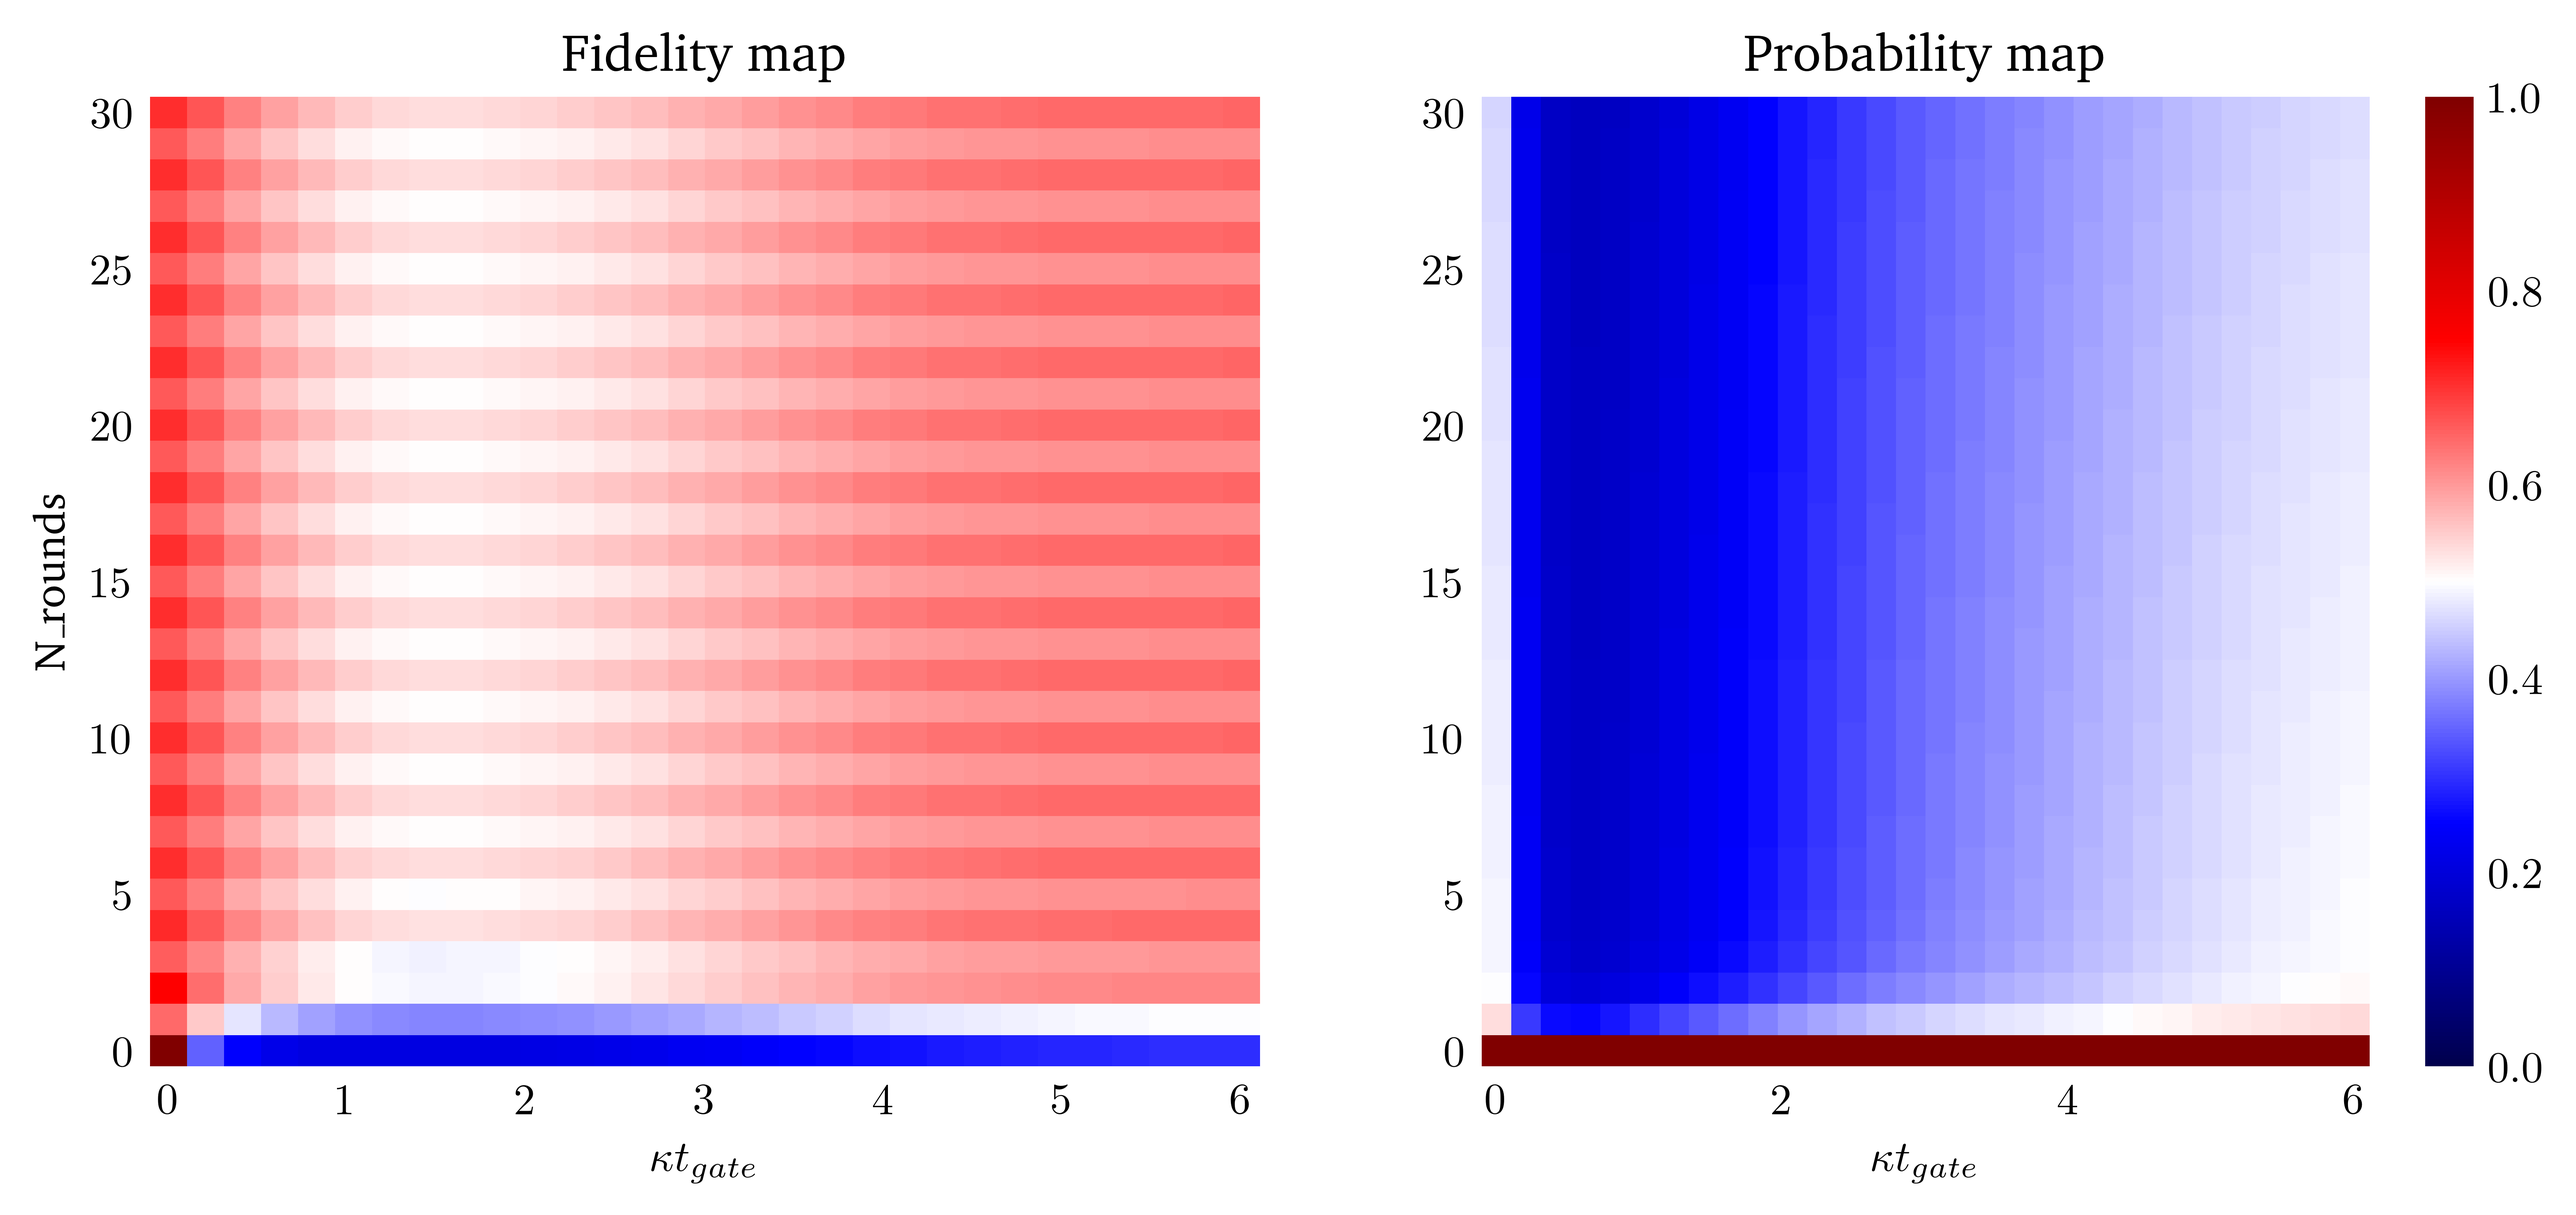
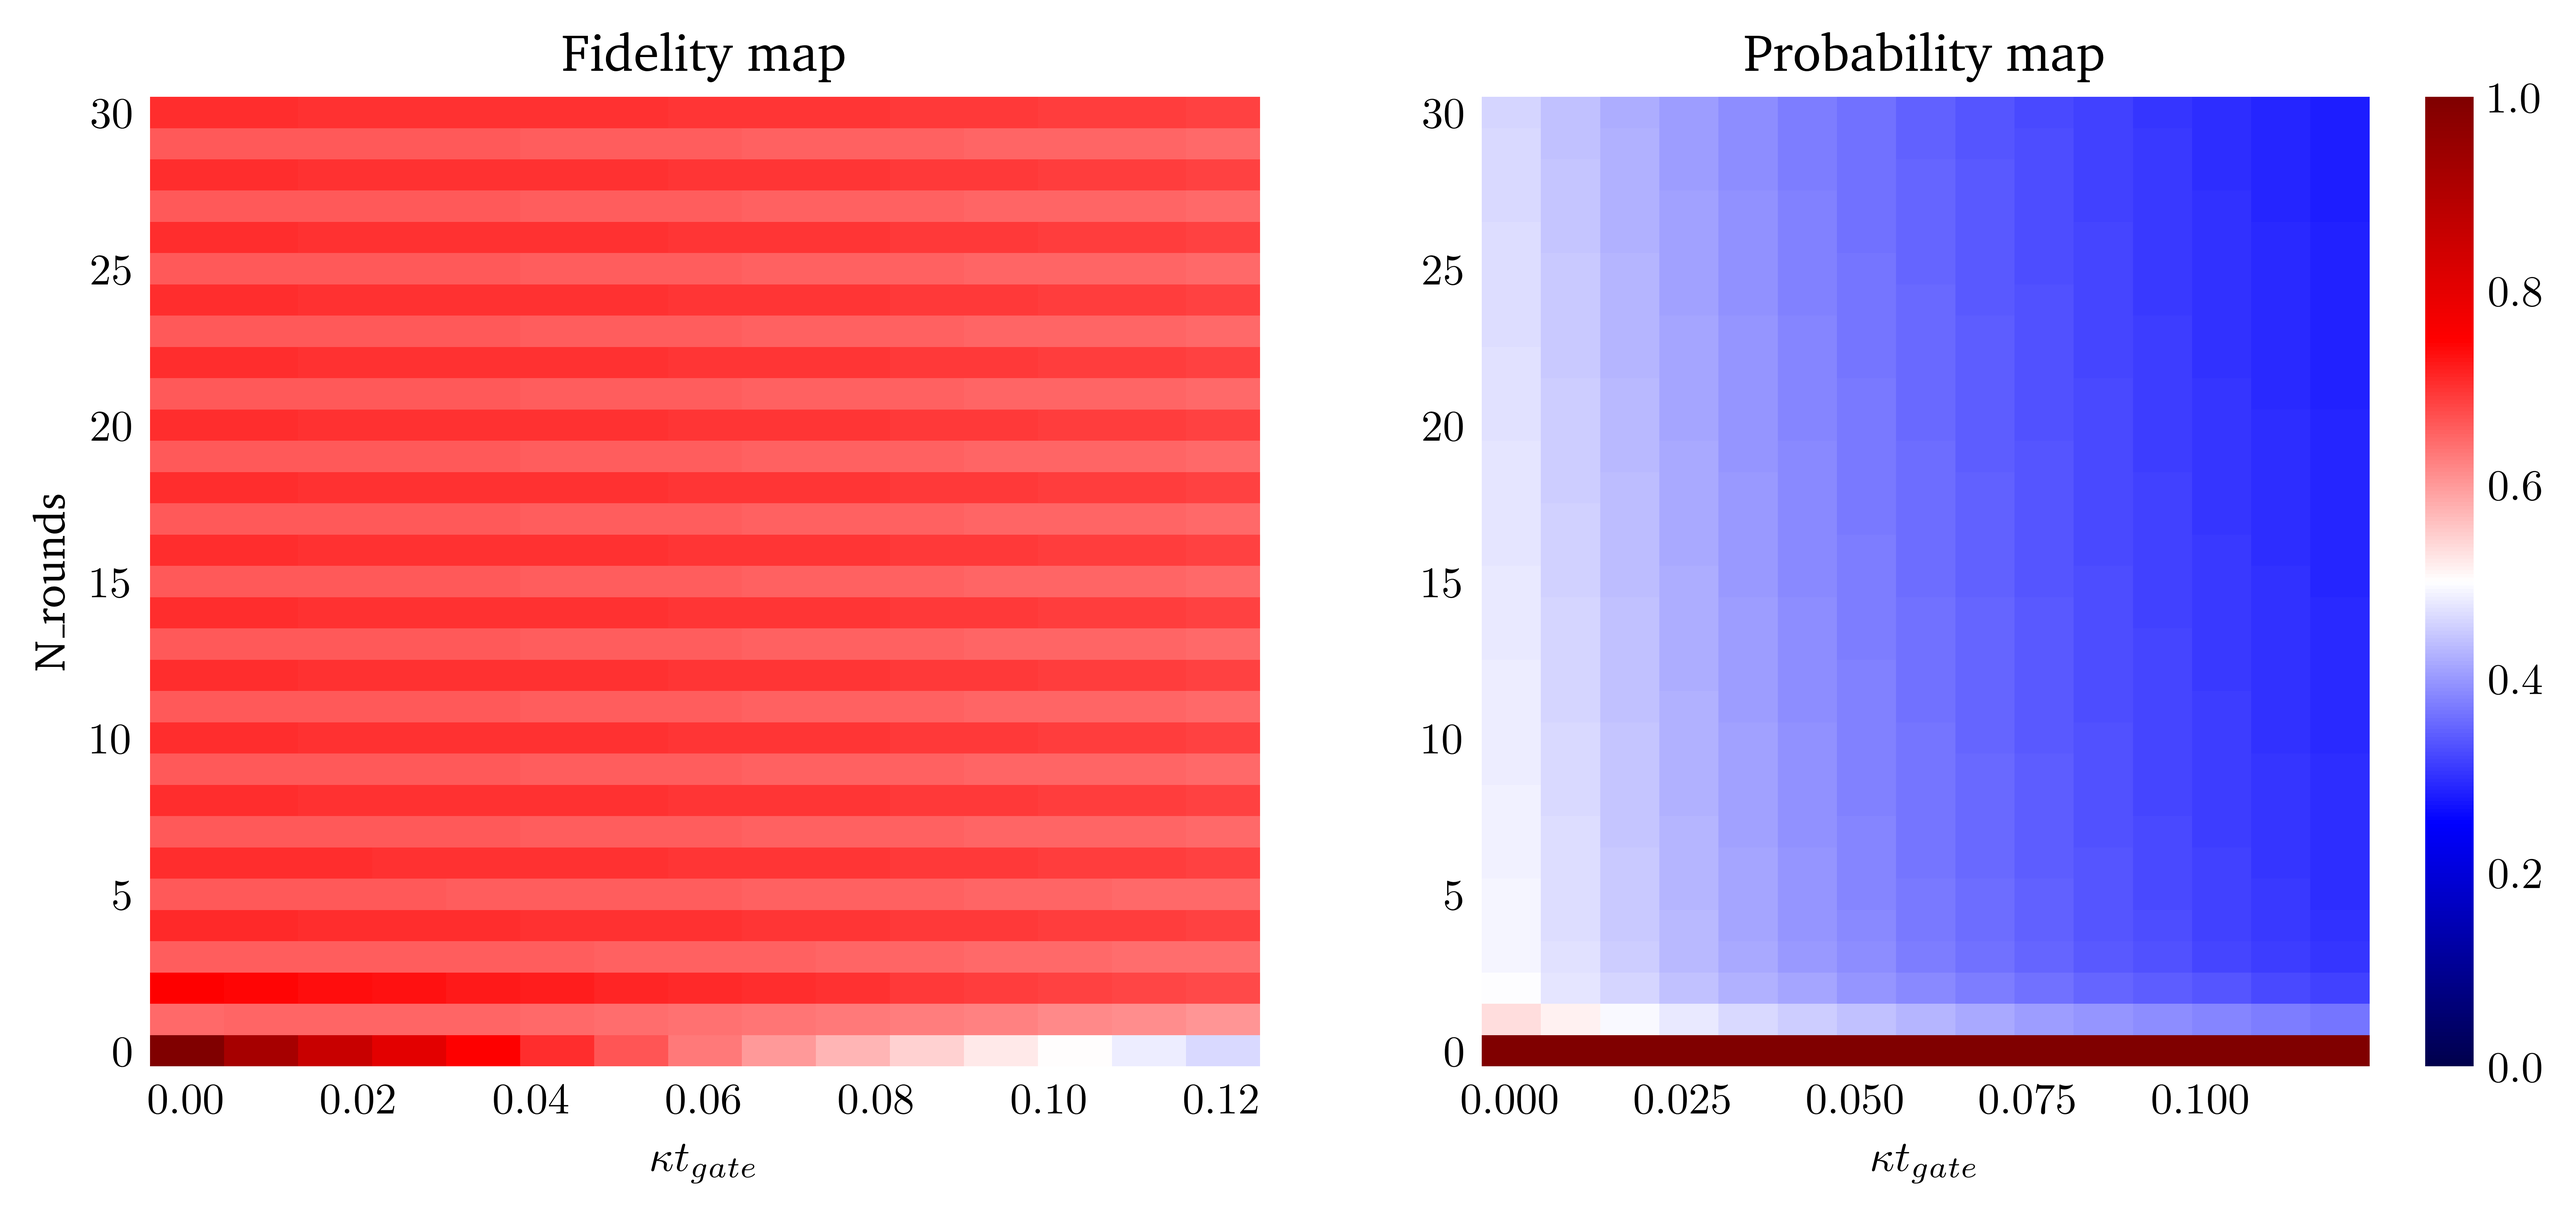
fit

diff --git a/stage_baptiste/homemades/KrausOperator_JV.py b/stage_baptiste/homemades/KrausOperator_JV.py
@@ -13,6 +13,7 @@ import tqdm
 import math
 from qutip import *
 from scipy.constants import pi
+from scipy.optimize import curve_fit
 from stage_baptiste.homemades.finite_GKP import GKP
 import matplotlib as mpl
 import matplotlib.pyplot as plt
@@ -106,6 +107,19 @@ def get_correction(corrections,rho):
     elif coin == 1:
         get_correction(corrections,rho)
     return correct_with
+
+
+def mapping_fidelity(A,B):
+    """
+
+    Args:
+        A:
+        B:
+
+    Returns:
+
+    """
+    return
 
 
 def color_maps(GKP_obj,H,t_gate,max_error_rate,max_N_rounds,t_num=10,kap_num=10,N_rounds_steps=1,mode='random',
@@ -279,11 +293,20 @@ def color_maps(GKP_obj,H,t_gate,max_error_rate,max_N_rounds,t_num=10,kap_num=10,
                              "traces_ix = [[n_rounds_ixs],[error_rates_ixs]]. "
                              "Providing one list will be assumed to be n_rounds_idx.")
         elif traces_ix[0] and traces_ix[1]:
+            def parabolic(x, a, b, h):
+                return a*(x-h)**2 + b
+            def linear(x, a, b):
+                return a*x + b
             fig,axs = plt.subplots(1,2, figsize=(10,4))
             h_traces = axs[0].plot(xvec,horizontals.T)
             v_traces = axs[1].plot(yvec,verticals)
             for h_trace,h_ix in zip(h_traces,traces_ix[0]):
-                h_trace.set(label=f"N rounds = {h_ix}")
+                x_data,y_data = h_trace.get_data()[0],h_trace.get_data()[1]
+                popt,pcov = curve_fit(linear,x_data,y_data)
+                x_fit = np.linspace(x_data[1],max(h_trace.get_data()[0]),200)
+                y_fit = linear(x_fit,*popt)
+                axs[0].plot(x_fit,y_fit,label=rf"fit $N={h_ix},\alpha={round(popt[0],3)},\beta = {round(popt[1],3)}$",ls="dotted",color=h_trace.get_color())
+                axs[0].text(0.05,0.52,r"$F = \alpha (x-h)^2 + \beta$")
             for v_trace,v_ix in zip(v_traces,traces_ix[1]):
                 v_trace.set(label=r"$\kappa t_{gate} = $"+f"{round(xvec[v_ix],3)}")
             axs[0].set_title("Horizontal traces")
@@ -294,7 +317,7 @@ def color_maps(GKP_obj,H,t_gate,max_error_rate,max_N_rounds,t_num=10,kap_num=10,
             # axs[0].set_ylim(0,1)
             axs[1].sharey = axs[0]
             for ax in axs:
-                ax.legend()
+                ax.legend(loc="upper right")
         else:
             fig, ax = plt.subplots(figsize=(10, 8))
             if traces_ix[0]:

diff --git a/stage_baptiste/projects/Kraus_codes/color_maps/colors_maps_analysis.py b/stage_baptiste/projects/Kraus_codes/color_maps/colors_maps_analysis.py
@@ -21,10 +21,10 @@ N_op = a.dag()*a
 GKP_obj = GKP(d,j,delta,hilbert_dim)
 H = N_op**2
 tgate = pi/8
-max_error_rate = 6
+max_error_rate = 0.12
 max_N_rounds = 30
 fig_name = "big_sqrtH_gg_cmap"
-tr_fig_name = "traces"
+tr_fig_name = "lin_traces"
 fig_path = f"/Users/jeremie/Desktop/Stage_Baptiste/stage_baptiste/projects/Kraus_codes/color_maps/figs/"
-color_maps(GKP_obj, H, tgate, max_error_rate, max_N_rounds, kap_num=30, mode='gg',
-           traces=True,traces_ix=[[2,4,6,8],[2,4,6,8]],fig_name=fig_name,traces_fig_name=tr_fig_name,fig_path=fig_path,show=True)
+color_maps(GKP_obj, H, tgate, max_error_rate, max_N_rounds, kap_num=15, mode='gg',
+           traces=False,traces_ix=[[2,4,6,8],[2,4,6,8]],fig_name=fig_name,fig_path=fig_path,show=True)

diff --git a/stage_baptiste/homemades/general_funcs.py b/stage_baptiste/homemades/general_funcs.py
@@ -129,3 +129,6 @@ def DFT_matrix(N):
     omega = np.exp(2*pi*1j/N)
     W = np.power(omega, i*j) / np.sqrt(N)
     return W
+
+
+
